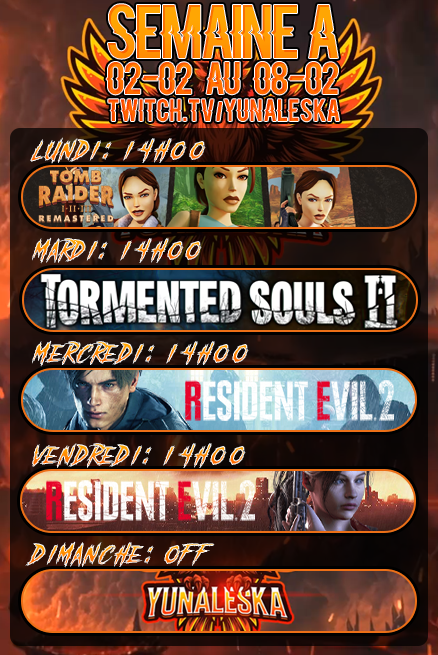
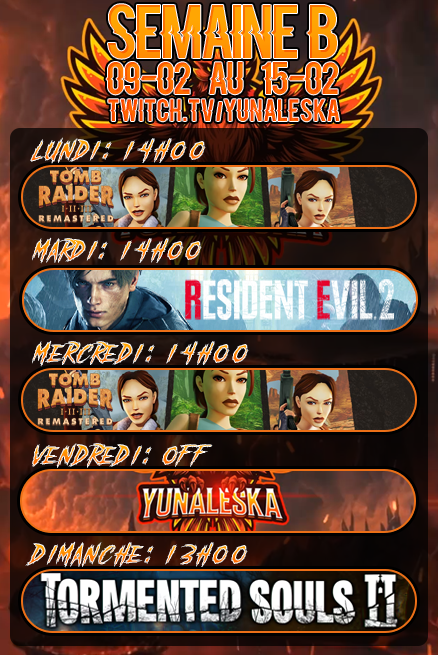
Weekly update

diff --git a/assets/scripts/updates.js b/assets/scripts/updates.js
@@ -1,18 +1,18 @@
 export const updates = [
   {
-    version: "1.42",
-    date: "02-02-2026",
+    version: "1.43",
+    date: "08-02-2026",
     messages: {
       fr: {
         features: [
-          "○ Planning de la semaine du 02 février 2026",
+          "○ Planning de la semaine du 09 février 2026",
 
           "○ Mise à jour des succès Tomb Raider I•II•III Remastered (Steam)",
           "○ Mise à jour des succès Shape of Dreams (Steam)",
-          "○ Mise à jour des succès Nexomon (Steam)",
-          "○ Mise à jour des succès Megabonk (Steam)",
-          "○ Mise à jour des trophées Tormented Souls [Platine] (PS4)",
-          "○ Mise à jour des trophées Tormented Souls (PS5)"
+          "○ Mise à jour des succès Nexomon [100%] (Steam)",
+          "○ Mise à jour des trophées Tormented Souls II (Steam)",
+          "○ Mise à jour des trophées Final Fantasy IV : Pixel Remaster [Platine] (PS4)",
+          "○ Mise à jour des trophées Final Fantasy V : Pixel Remaster (PS4)"
         ],
         fixes: [
           
@@ -20,18 +20,17 @@ export const updates = [
       },
       en: {
         features: [
-          "○ Weekly Schedule from the 2nd of February 2026",
+          "○ Weekly Schedule from the 9th of February 2026",
 
           "○ Updated Tomb Raider I•II•III Remastered achievements (Steam)",
           "○ Updated Shape of Dreams achievements (Steam)",
-          "○ Updated Nexomon (Steam)",
-          "○ Updated Megabonk (Steam)",
-          "○ Updated Tormented Souls trophies [platinum] (PS4)",
-          "○ Updated Tormented Souls trophies (PS5)"
+          "○ Updated Nexomon [100%] (Steam)",
+          "○ Updated Tormented Souls II achievements (Steam)",
+          "○ Updated Final Fantasy IV : Pixel Remaster [Platinum] trophies (PS4)",
+          "○ Updated Final Fantasy V : Pixel Remaster trophies (PS4)"
         ],
         fixes: [
-          "○ Fixed the title of Tomb Raider IV•V•VI (I - III previously)",
-          "○ Changed the tile of Tomb Raider I - 3 → I•II•III Remastered"
+          
         ]
       },
       pt: {

diff --git a/ps4.html b/ps4.html
@@ -84,7 +84,7 @@
 						</div>
 						<li class="site-sidebar__items item-line" id="totalCount"><i class="fas fa-trophy"></i></li>
 						<li class="site-sidebar__items item-line">Premier platine : Resident Evil</li>
-						<li class="site-sidebar__items item-line">Dernier platine : Tomb Raider III Remastered</li>
+						<li class="site-sidebar__items item-line">Dernier platine : Final Fantasy IV</li>
 					</ul>
 					
 				</div>

diff --git a/assets/scripts/steam.js b/assets/scripts/steam.js
@@ -59,11 +59,11 @@ function updateCompletionTimeline(games) {
     const lastEl = document.getElementById('last_100');
 
     if (firstEl) {
-        firstEl.textContent = `Premier 100% : Spyro Reignited Trilogy`;
+        firstEl.textContent = `Premier 100% : Spyro Trilogy`;
     }
 
     if (lastEl) {
-        lastEl.textContent = `Dernier 100% : SWORN`;
+        lastEl.textContent = `Dernier 100% : Nexomon`;
     }
 }
 
